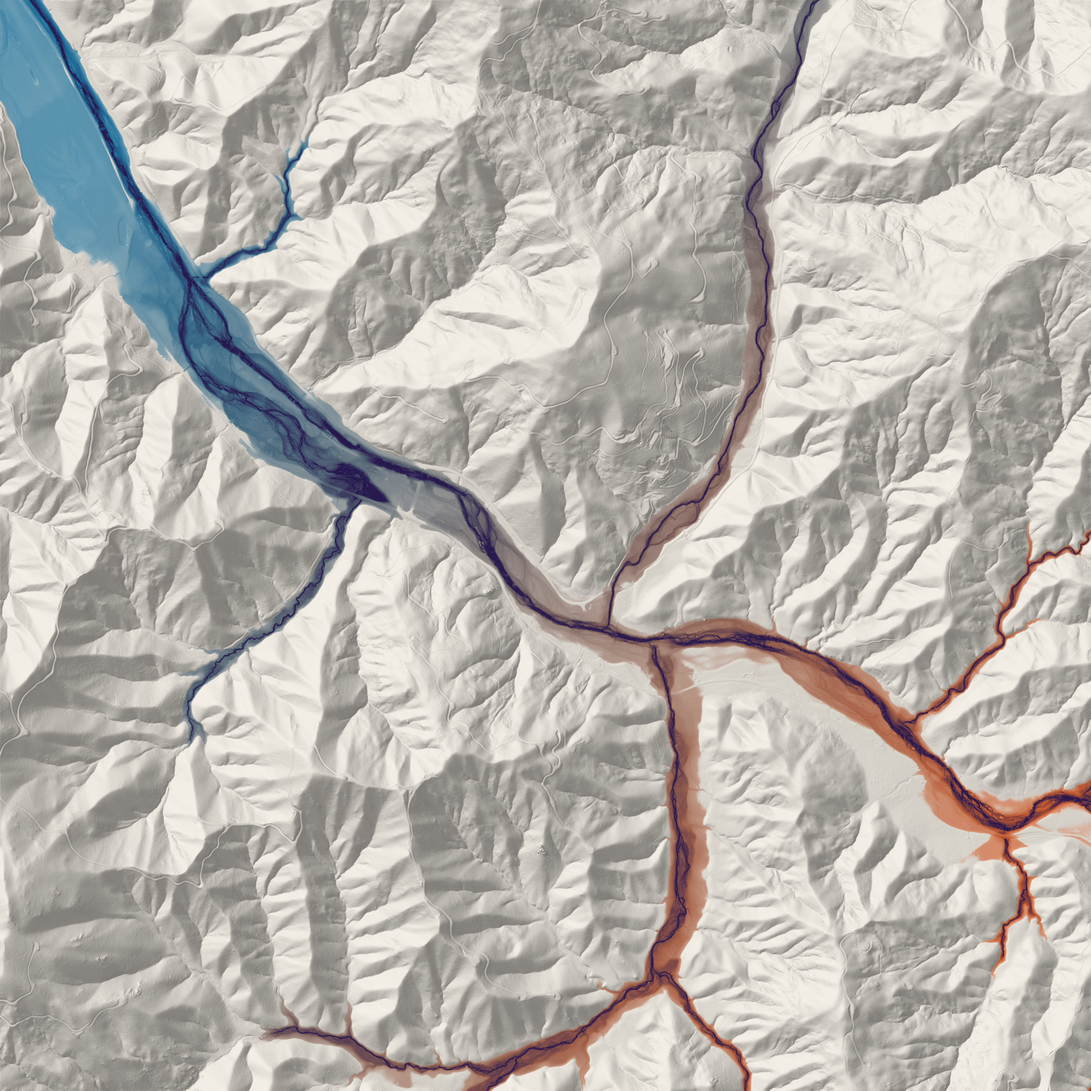
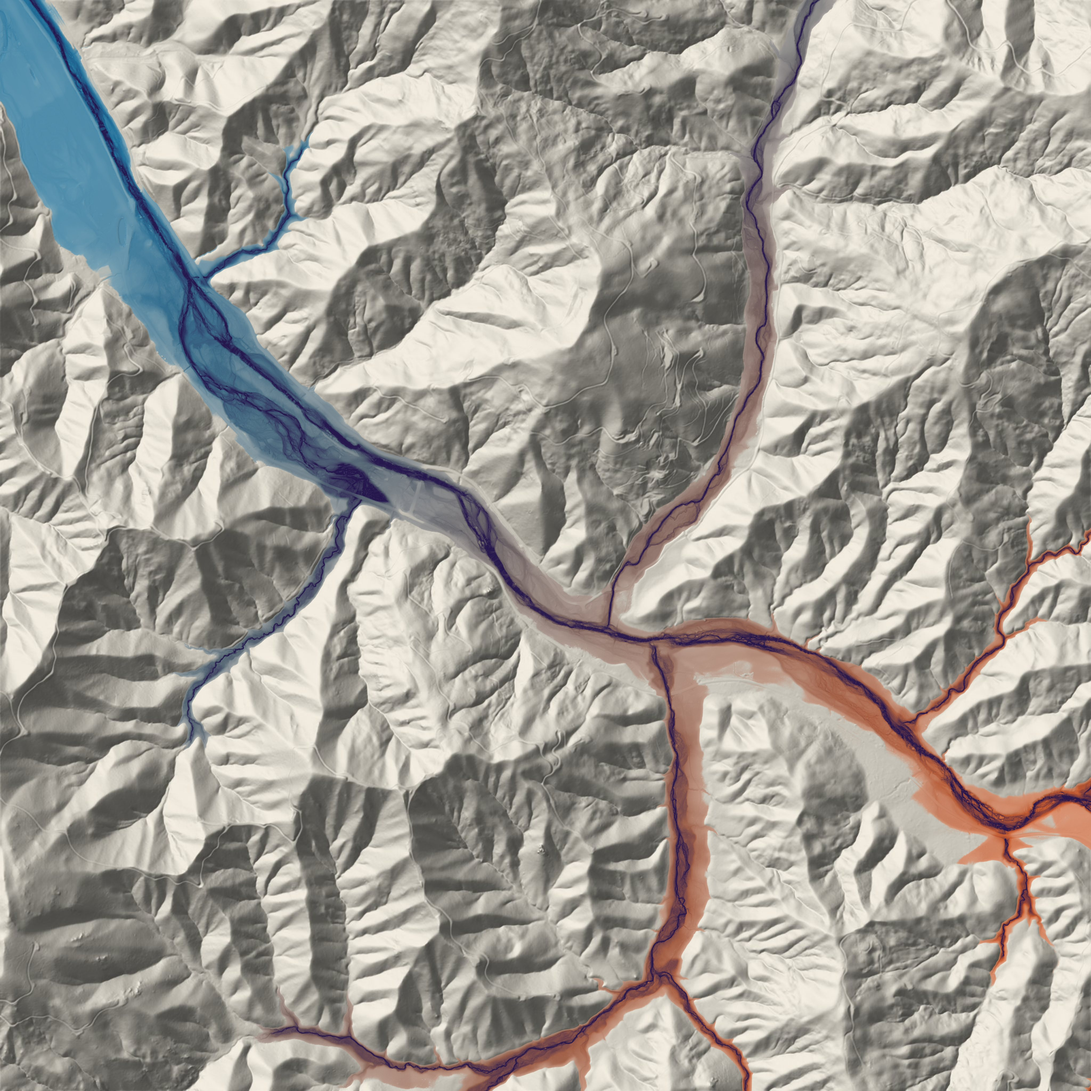
Floodplain palettes: 6 m upper limit, clear above it on every palette

diff --git a/index.html b/index.html
@@ -719,10 +719,10 @@ function initThree(){
     $("#leg3dRoads").innerHTML = rc.map(c => `<div><b style="background:${c.color}"></b>${esc3(c.name)}</div>`).join("");
   }
   // floodplain palettes (build_rem_styles.py): REM rebuilt at 1 m, each with its own stretch and legend
-  const REMNOTE = { glow: "The glow marks the valley floor, up to 5 m above the river; the brightest ground sits within a meter or two of the water.",
-    copper: "Color marks the valley floor, up to 5 m above the river; the darkest ground sits within a meter or two of the water.",
-    dusk: "Color marks the valley floor, up to 5 m above the river, shifting from teal downstream to rust upstream.",
-    teal: "Color marks the valley floor, up to 5 m above the river; the darkest teal sits within a meter or two of the water." };
+  const REMNOTE = { glow: "The glow marks the valley floor, up to 6 m above the river; the brightest ground sits within a meter or two of the water.",
+    copper: "Color marks the valley floor, up to 6 m above the river; the darkest ground sits within a meter or two of the water.",
+    dusk: "Color marks the valley floor, up to 6 m above the river, shifting from teal downstream to rust upstream.",
+    teal: "Color marks the valley floor, up to 6 m above the river; the darkest teal sits within a meter or two of the water." };
   const DARK = {}, remTex = {};   // palettes with dark high ground, where the main road turns cream
   let remStyle = "glow";
   function setRem(k, first){
